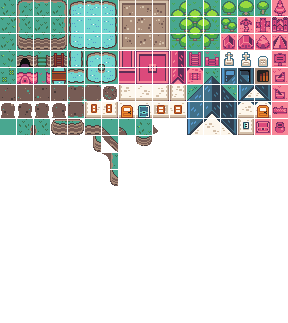
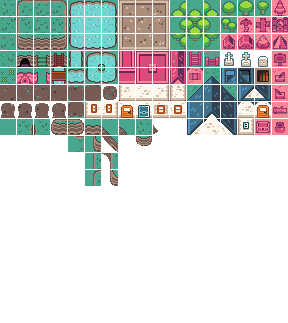
more ledge work

Changed region(s): [[0.2188, 0.4025, 0.375, 0.5882]]

diff --git a/src/game/world/ground/ConnectingTileLedgeSchema.ts b/src/game/world/ground/ConnectingTileLedgeSchema.ts
@@ -2,16 +2,9 @@ import { StaticTileSource } from "../../../engine/tiles/StaticTileSource"
 import { Point } from "../../../engine/Point"
 import { ImageRender } from "../../../engine/renderer/ImageRender"
 import { TileTransform } from "../../../engine/tiles/TileTransform"
-import { ConnectingTile } from "./ConnectingTile"
-import { Grid } from "../../../engine/util/Grid"
-import { GroundComponent } from "./GroundComponent"
 import { Tilesets, TILE_SIZE } from "../../graphics/Tilesets"
 import { ConnectingTileSchema } from "./ConnectingTileSchema"
-import { GroundType } from "./Ground"
 import { WorldLocation } from "../WorldLocation"
-
-const CORNER_SIZE = TILE_SIZE/2
-const CORNER_DIMS = new Point(CORNER_SIZE, CORNER_SIZE)
 
 /**
  * Defines how a type of connecting tiles interacts with other types of connecting tiles.
@@ -39,11 +32,11 @@ export class ConnectingTileLedgeSchema extends ConnectingTileSchema {
         const w = location.levels.get(new Point(x - 1, y))
         const nw = location.levels.get(new Point(x - 1, y - 1))
         
-        const render = (source: StaticTileSource, rotation: number = 0, offset = Point.ZERO) => {
+        const render = (source: StaticTileSource, mirrorX = false) => {
             return source.toImageRender(TileTransform.new({ 
-                position: position.times(TILE_SIZE).plus(offset), 
-                rotation, 
-                depth: Number.MIN_SAFE_INTEGER + 1
+                position: position.times(TILE_SIZE), 
+                depth: Number.MIN_SAFE_INTEGER + 1,
+                mirrorX
             }))
         }
 
@@ -53,42 +46,50 @@ export class ConnectingTileLedgeSchema extends ConnectingTileSchema {
          *   - No ledge should have 4 N/E/S/W connections
          */ 
 
-        let tile: StaticTileSource
+        let result: ImageRender
 
-        if (w === level && e === level) {
-            if (n < level) {
-                // this is a top ledge
-                tile = Tilesets.instance.tilemap.getTileAt(new Point(2, 0))
-            } else if (s < level) {
-                // this is a bottom ledge
-                tile = Tilesets.instance.tilemap.getTileAt(new Point(2, 2))
-            }
-        } else if (n === level && s === level) {
-            if (e < level) {
-                // this is a right ledge
-                tile = Tilesets.instance.tilemap.getTileAt(new Point(3, 1))
-            } else if (w < level) {
-                // this is a left ledge
-                tile = Tilesets.instance.tilemap.getTileAt(new Point(1, 1))
-            }
-        } else if (n === level && e === level) {
+        if (w === level && e === level && n < level) {
+            // this is a top ledge
+            result = render(Tilesets.instance.tilemap.getTileAt(new Point(2, 0)))
+        } else if (w === level && e === level && s < level) {
+            // this is a bottom ledge
+            result = render(Tilesets.instance.tilemap.getTileAt(new Point(5, 7)))
+        } else if (n === level && s === level && e < level) {
+            // this is a right ledge
+            result = render(Tilesets.instance.tilemap.getTileAt(new Point(5, 9)), true)
+        } else if (n === level && s === level && w < level) {
+            // this is a left ledge
+            result = render(Tilesets.instance.tilemap.getTileAt(new Point(5, 9)))
+        } else if (s < level && w < level) {
             // bottom left corner
-            tile = Tilesets.instance.tilemap.getTileAt(new Point(1, 2))
-        } else if (n === level && w === level) {
+            result = render(Tilesets.instance.tilemap.getTileAt(new Point(5, 8)))
+        } else if (s < level && e < level) {
             // bottom right corner
-            tile = Tilesets.instance.tilemap.getTileAt(new Point(3, 2))
-        } else if (s === level && e === level) {
+            result = render(Tilesets.instance.tilemap.getTileAt(new Point(5, 8)), true)
+        } else if (n < level && w < level) {
             // top left corner
-            tile = Tilesets.instance.tilemap.getTileAt(new Point(1, 0))
-        } else if (s === level && w === level) {
+            result = render(Tilesets.instance.tilemap.getTileAt(new Point(5, 10)))
+        } else if (n < level && e < level) {
             // top right corner
-            tile = Tilesets.instance.tilemap.getTileAt(new Point(3, 0))
+            result = render(Tilesets.instance.tilemap.getTileAt(new Point(5, 10)), true)
+        } else if (se < level) {
+            // top left inside corner 
+            result = render(Tilesets.instance.tilemap.getTileAt(new Point(7, 7)), true)
+        } else if (sw < level) {
+            // top right inside corner 
+            result = render(Tilesets.instance.tilemap.getTileAt(new Point(7, 7)))
+        } else if (ne < level) {
+            // bottom left inside corner 
+            result = render(Tilesets.instance.tilemap.getTileAt(new Point(4, 8)))
+        } else if (nw < level) {
+            // bottom right inside corner 
+            result = render(Tilesets.instance.tilemap.getTileAt(new Point(4, 8)), true)
         }
 
-        if (!tile) {
+        if (!result) {
             return []
         }
 
-        return [render(tile)]
+        return [result]
     }
 }

diff --git a/src/game/world/MapGenerator.ts b/src/game/world/MapGenerator.ts
@@ -133,7 +133,7 @@ export class MapGenerator {
             for (let j = -MapGenerator.MAP_SIZE/2; j < MapGenerator.MAP_SIZE/2; j++) {
                 const pt = new Point(i, j)
                 // TODO revisit levels
-                const edgesEnabled = false
+                const levelsEnabled = false
                 const thisLevel = this.location.levels.get(pt)
                 const adjacent = [
                     pt.plus(new Point(0, -1)), 
@@ -148,7 +148,7 @@ export class MapGenerator {
                 const isLedge = adjacent
                         .map(pt => this.location.levels.get(pt))
                         .some(level => level < thisLevel)
-                if (isLedge && edgesEnabled) {
+                if (isLedge && levelsEnabled) {
                     this.location.setGroundElement(GroundType.LEDGE, pt)
                 } else {
                     this.location.setGroundElement(GroundType.GRASS, pt)

diff --git a/src/game/world/ground/Ledge.ts b/src/game/world/ground/Ledge.ts
@@ -1,11 +1,6 @@
-import { TileSource } from "../../../engine/tiles/TileSource"
-import { WorldLocation } from "../WorldLocation"
-import { Point } from "../../../engine/Point"
-import { Tilesets, TILE_SIZE } from "../../graphics/Tilesets"
 import { GroundComponent } from "./GroundComponent"
 import { Entity } from "../../../engine/Entity"
 import { GroundType, MakeGroundFuncData } from "./Ground"
-import { TileTransform } from "../../../engine/tiles/TileTransform"
 import { ConnectingTileLedgeSchema } from "./ConnectingTileLedgeSchema"
 import { ConnectingTile } from "./ConnectingTile"
 

diff --git a/src/game/world/ground/ConnectingTile.ts b/src/game/world/ground/ConnectingTile.ts
@@ -2,8 +2,6 @@ import { Point } from "../../../engine/Point"
 import { ImageRender } from "../../../engine/renderer/ImageRender"
 import { Component } from "../../../engine/Component"
 import { ConnectingTileSchema } from "./ConnectingTileSchema"
-import { Grid } from "../../../engine/util/Grid"
-import { GroundComponent } from "./GroundComponent"
 import { WorldLocation } from "../WorldLocation"
 
 export class ConnectingTile extends Component {
